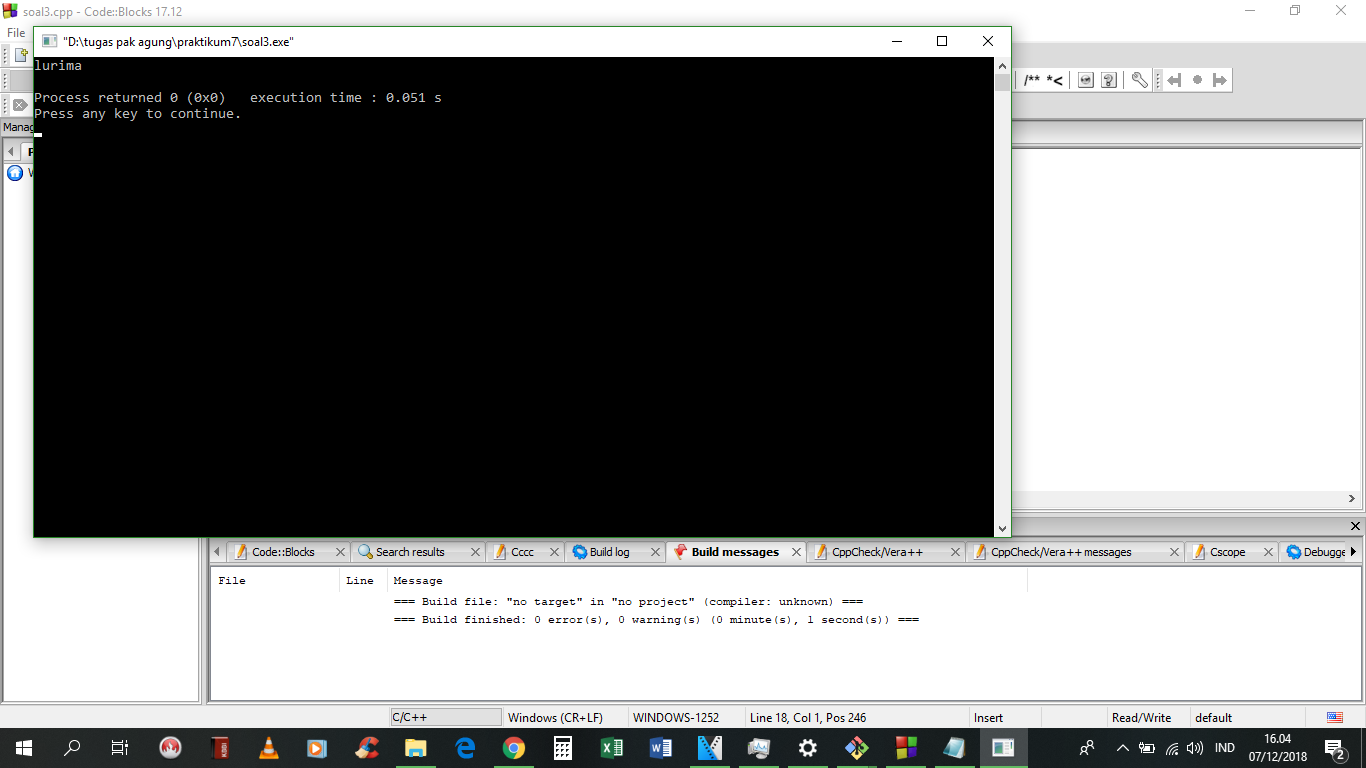
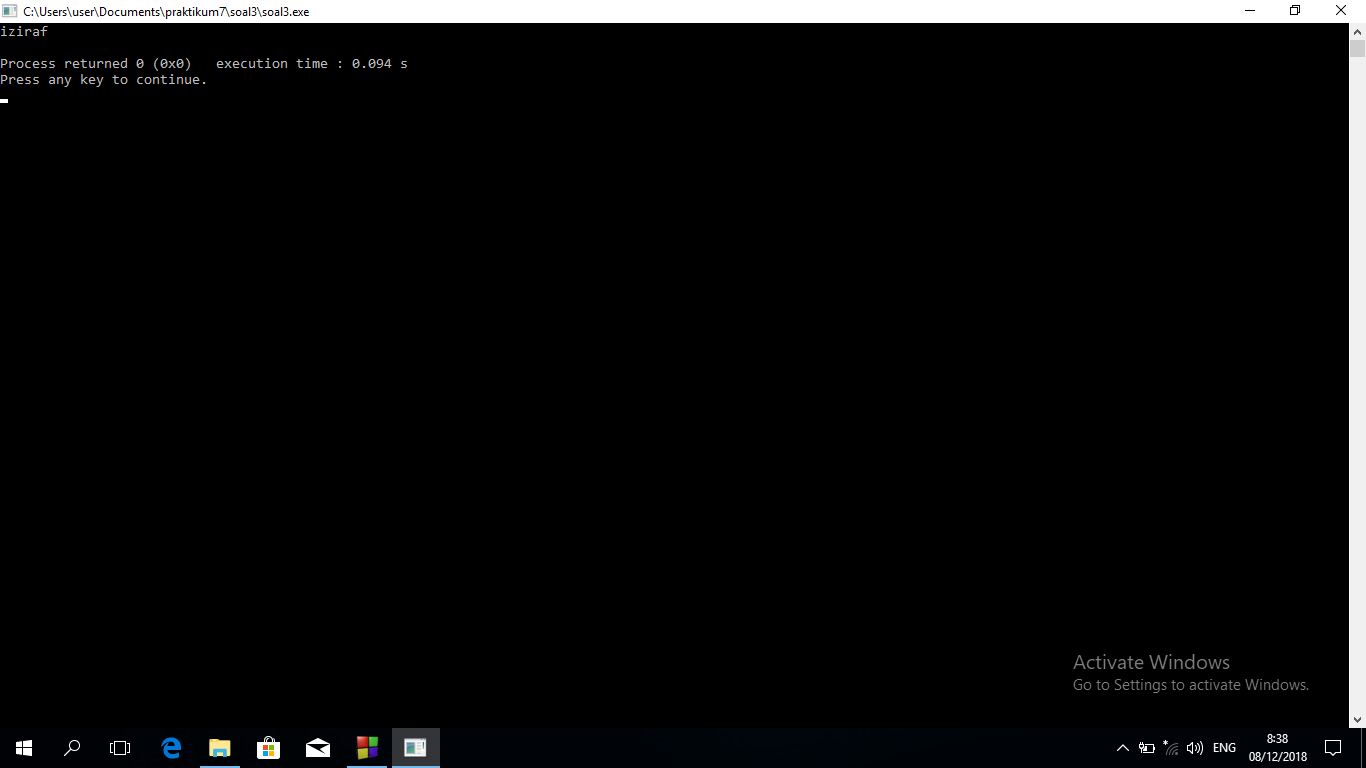
first commit

diff --git a/soal3/soal3.cpp b/soal3/soal3.cpp
@@ -10,7 +10,7 @@ cout << s[0];
 }
 int main()
 {
-      char* kata = (char*) "amirul";
+      char* kata = (char*) "farizi";
     balik(kata); cout << endl;
     return 0;
 
